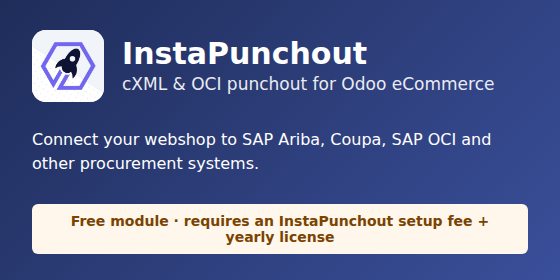
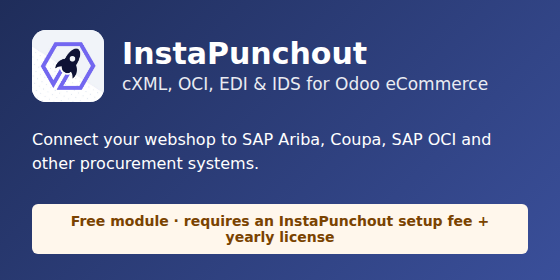
Listing: state cXML, OCI, EDI and IDS support

Changed region(s): [[0.3036, 0.2571, 0.8804, 0.3429]]

diff --git a/instapunchout/static/description/index.html b/instapunchout/static/description/index.html
@@ -32,11 +32,11 @@
       <li>Your buyer clicks your shop in their procurement system (for example SAP Ariba, Coupa or SAP via OCI).</li>
       <li>InstaPunchout validates the request and the buyer is logged in to your Odoo website as a portal user.</li>
       <li>They browse your catalog with their own prices and fill the cart as usual.</li>
-      <li>The cart is sent back to the procurement system for approval, in cXML or OCI format.</li>
+      <li>The cart is sent back to the procurement system for approval, in the format it uses.</li>
     </ol>
     <h3 style="color:#1f2d5a;">What you get</h3>
     <ul style="font-size:15px;">
-      <li>cXML and OCI punchout on your existing Odoo eCommerce</li>
+      <li><b>cXML, OCI, EDI and IDS</b> support on your existing Odoo eCommerce</li>
       <li>Automatic login, with optional creation of portal users under the buyer's company</li>
       <li>Cart edit: buyers can reopen a cart from their procurement system</li>
       <li>Multi-website and multi-company support</li>

diff --git a/instapunchout/__manifest__.py b/instapunchout/__manifest__.py
@@ -1,11 +1,11 @@
 {
-    "name": "InstaPunchout - cXML & OCI Punchout for eCommerce",
+    "name": "InstaPunchout - Punchout for eCommerce (cXML, OCI, EDI, IDS)",
     "version": "17.0.1.0.0",
     "author": "InstaPunchout",
     "maintainer": "InstaPunchout",
     "support": "info@instapunchout.com",
     "website": "https://www.instapunchout.com",
-    "summary": "Connect your Odoo webshop to your buyers' procurement systems (SAP Ariba, Coupa, SAP OCI...). "
+    "summary": "Connect your Odoo webshop to your buyers' procurement systems (SAP Ariba, Coupa, SAP OCI...) with cXML, OCI, EDI and IDS. "
                "Free connector - requires a paid InstaPunchout subscription (setup fee + yearly license per connection).",
     "category": "Website/eCommerce",
     "license": "LGPL-3",

diff --git a/README.md b/README.md
@@ -1,5 +1,5 @@
 # InstaPunchout for Odoo
 
-cXML and OCI punchout for Odoo eCommerce. One branch per Odoo version (`17.0`, `18.0`, `19.0`, `20.0`), module in `instapunchout/`.
+cXML, OCI, EDI and IDS for Odoo eCommerce. One branch per Odoo version (`17.0`, `18.0`, `19.0`, `20.0`), module in `instapunchout/`.
 
 The module is free (LGPL-3). It requires an InstaPunchout subscription: a one-time setup fee and a yearly license per buyer connection. Contact info@instapunchout.com.
